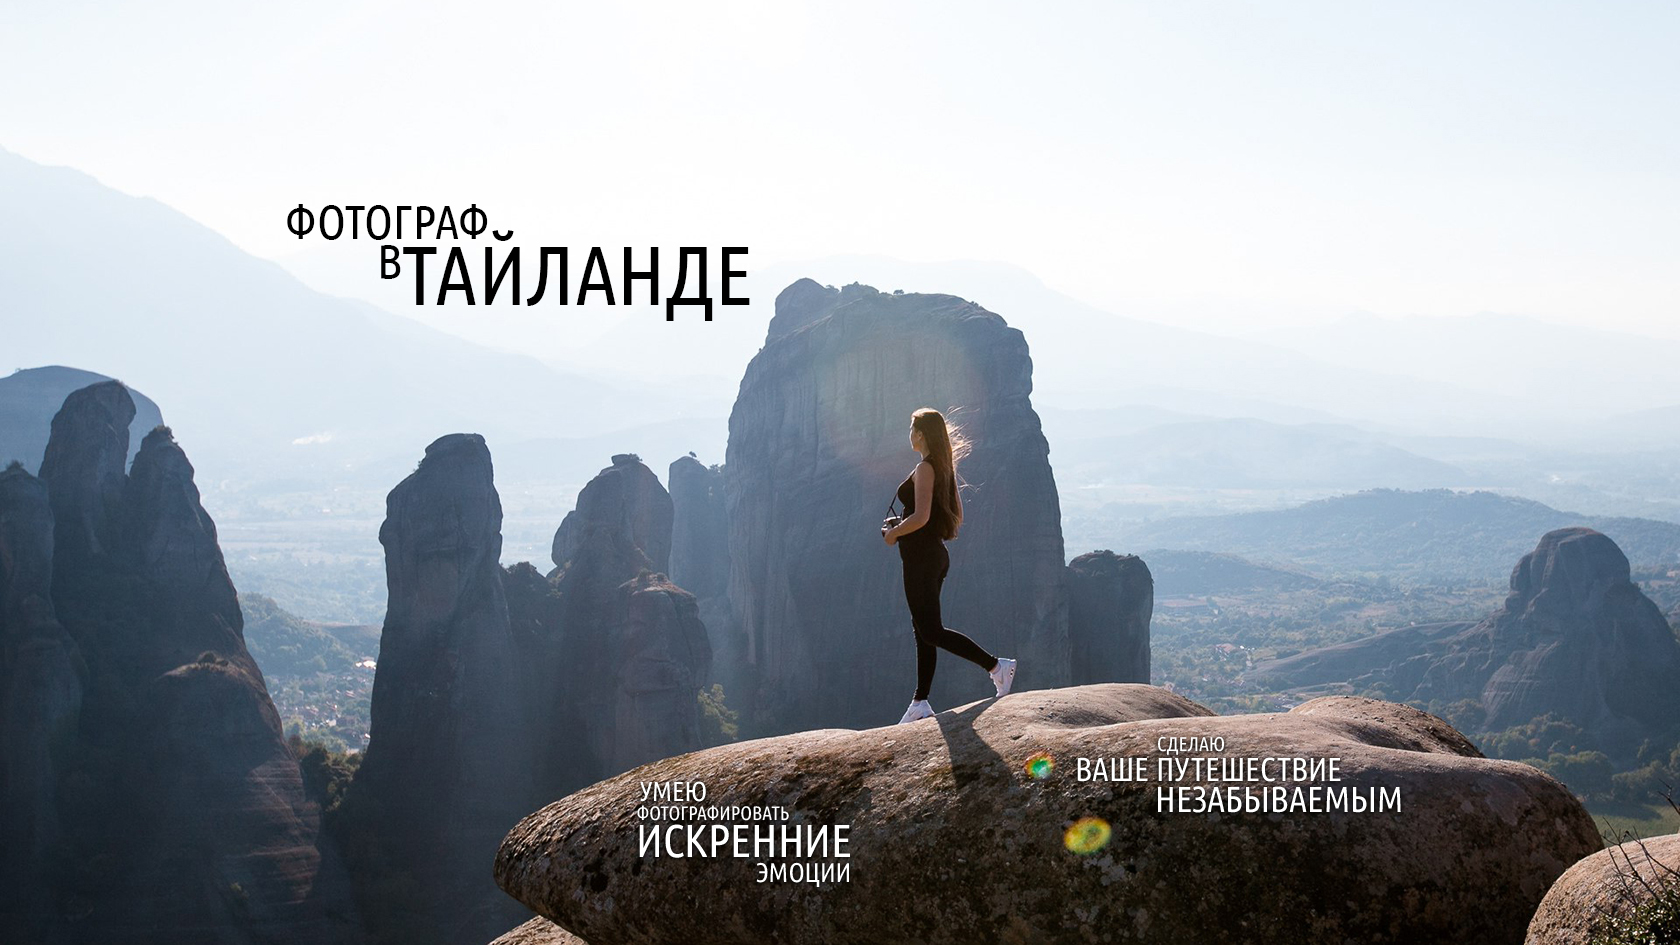
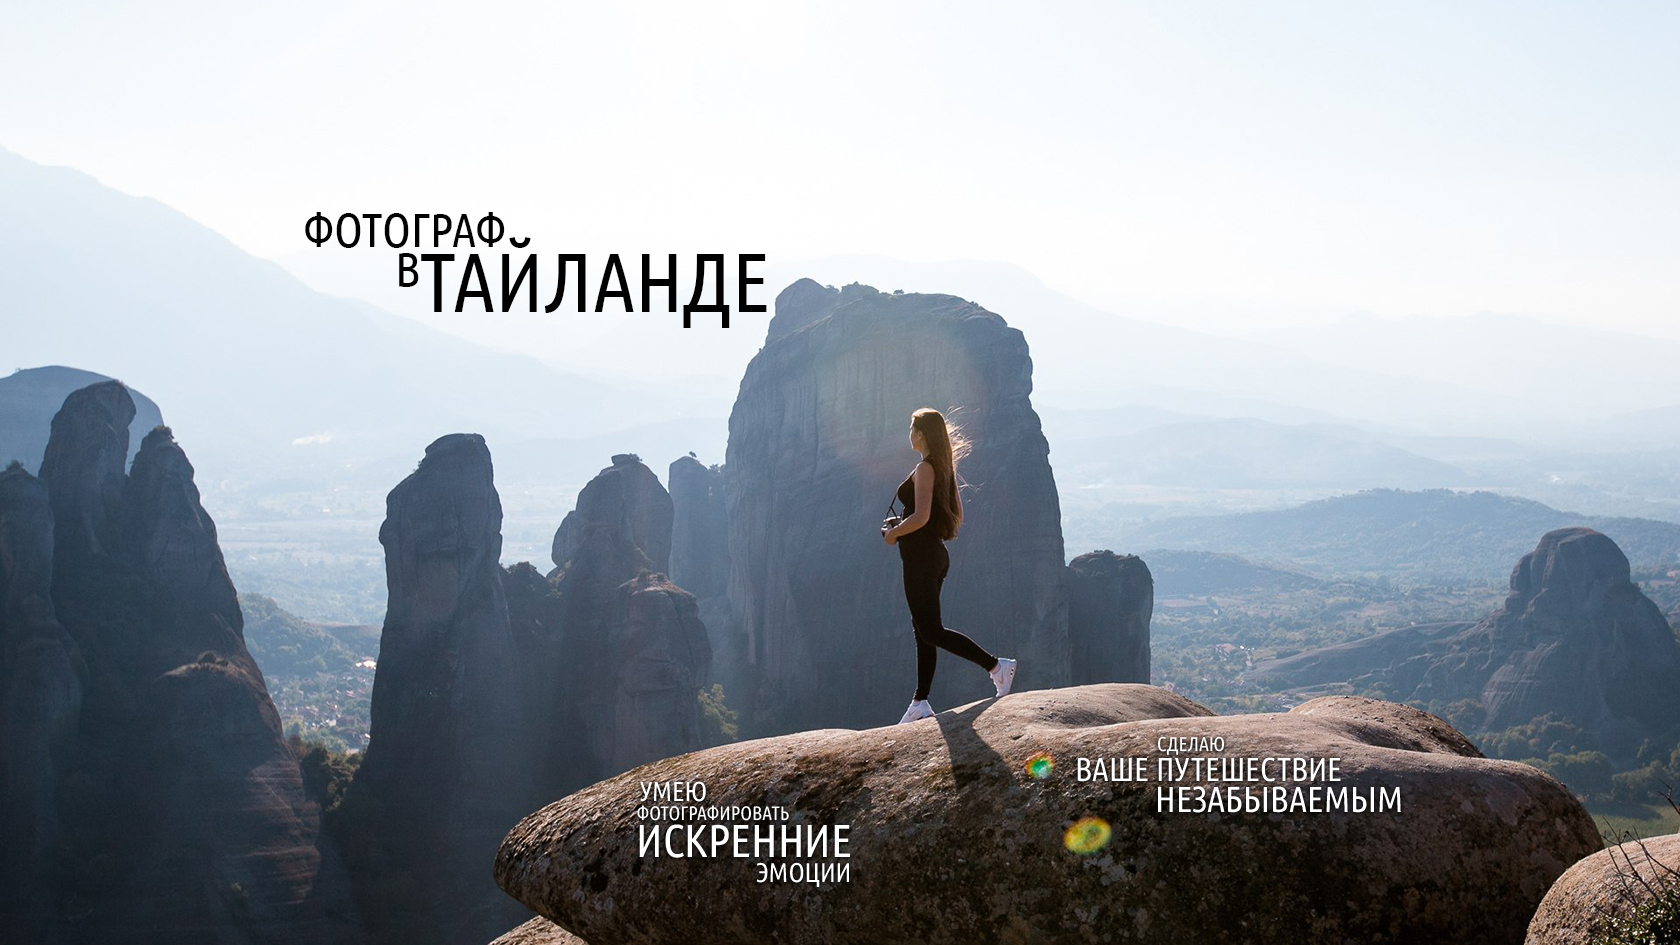
07.03.2018
Подправка фоновых изображений размера mid

Changed region(s): [[0.1548, 0.2148, 0.4643, 0.3376]]

diff --git a/css/mainStyle.css b/css/mainStyle.css
@@ -1,1 +1,1 @@
-@import url(https://fonts.googleapis.com/css?family=Ubuntu+Condensed);*{font-family:'Ubuntu Condensed',sans-serif;font-size:16px;-webkit-transition:all .6s ease;-moz-transition:all .6s ease;-o-transition:all .6s ease;-ms-transition:all .6s ease;-icab-perspective:all .6s ease;-khtml-perspective:all .6s ease;transition:all .6s ease}:active,:focus,:hover{outline:0;outline-offset:0}body,html{margin:0;padding:0;box-sizing:border-box}body{overflow-x:hidden;background-color:#efefef}a,h1,h2,h3,h4{font-family:'Ubuntu Condensed',sans-serif}h1{font-size:22px;margin:10px 0}a{text-decoration:none;color:rgba(68,68,68,.8)}a:hover{cursor:pointer;text-decoration:none}img{max-width:100%;height:auto;width:auto\9}.link{cursor:pointer}.mainImage,.secondImage,.thirdImage{background-repeat:no-repeat}.mainImage{height:100vh;background-image:url(../content/1.jpg);background-position:50% 50%;background-size:100%}@media screen and (max-width:768px){.mainImage{background-image:url(../content/1sm.jpg);background-position:55% 40%;background-size:cover}}@media screen and (min-width:769px){.mainImage{background-image:url(../content/1sm.jpg);background-position:50% 50%;background-size:150%}}@media screen and (min-width:992px){.mainImage{background-image:url(../content/1mid.jpg);background-position:50% 70%;background-size:140%}}@media screen and (min-width:1200px){.mainImage{background-image:url(../content/1.jpg);background-position:50% 50%;background-size:cover}}.secondImage{height:100vh;background-image:url(../content/2.jpg);background-position:50% 30%}@media screen and (max-width:768px){.secondImage{background-image:url(../content/2sm.jpg);background-position:50% -20%}}.thirdImage{background-image:url(../content/3.jpg);background-position:70% 40%}@media screen and (max-width:768px){.thirdImage{background-image:url(../content/3sm.jpg);background-position:60% 40%}}#about,#contacts,#portfolio,#work{padding:30px 0}#feedback,#work{background-color:#efefef}.navigation{position:fixed;top:0;font-size:15px;text-transform:uppercase}@media screen and (max-width:1222px){.navigation .row{display:flex;justify-content:center}}.navigation .logo{display:flex;justify-content:center;padding-top:10px;padding-bottom:10px}.navigation .logo img{max-height:40px}.navigation .buttons{padding-top:10px;min-width:750px;text-align:center}.navigation div.openButton{padding:10px}@media screen and (max-width:768px){.navigation .buttons .button{display:none;padding:10px}}@media screen and (max-width:844px){.navigation .buttons .button{padding:10px}}@media screen and (min-width:845px){.navigation .buttons .button{padding:10px}}.navigation .buttons .openButton{display:none}@media screen and (max-width:768px){.navigation .buttons .openButton{display:block}}.about .row{padding:0}.about .row>div{padding:10px}.about img{display:flex;justify-content:center}.about .textAboutMe{text-align:justify}.work .title{padding:15px;text-align:center}.work .types>div{margin-top:5px;margin-bottom:5px}.work .name{text-transform:uppercase;text-align:center}.work .name h2{font-size:20px}.work .pic>img{width:100%}.work .descr{border:1px solid rgba(68,68,68,.8);border-radius:5px;height:400px}.work .types>div>div{margin-bottom:10px;margin-top:10px}.price{margin-bottom:20px}.price .row>div{margin-bottom:10px;margin-top:10px}.price .title h1{text-align:center;color:rgba(68,68,68,.8);font-size:20px}.price .pr{padding:inherit;border:1px solid #ec3237;border-radius:5px}.price .order{padding:10px;width:50%;text-align:center;margin:10px auto;border:1px solid rgba(68,68,68,.8);border-radius:5px}.price .order:hover{border:1px solid #ec3237;border-radius:5px}.portfolio .thumb{padding:15px}.portfolio .thumb img{display:block;margin:0 auto}.portfolio .hidden{display:none}#portfolio .title{padding:10px}#portfolio .title h1{text-align:center}.feedback{padding:20px}.feedback .fb{padding:10px}.feedback .fb .text{text-align:justify;padding:15px}.feedback .fb .text p{margin:0}.feedback .fb .text h1{margin:0 0 10px}.feedback .fb img{display:block;margin:0 auto;width:40%;border-radius:50%}#feedback .title{padding:10px;text-align:center;margin:0 auto}.map{padding:0}@media screen and (max-width:768px){.map{padding:10px}}.map .title h1{text-align:center}footer{color:#fff}footer a.linkToDialog,footer div{text-align:center;margin:10px auto;width:50%;padding:5px;background-color:rgba(255,255,255,.3)}@media screen and (max-width:768px){footer a.linkToDialog,footer div{width:90%}}footer .socialMedia{display:flex;justify-content:center}footer .socialMedia a{color:#fff;margin:4px 30px}footer .socialMedia .fab{font-size:40px}footer .socialMedia .fab:hover{cursor:pointer}footer .socialMedia .fa-vk:hover{color:#507299}footer .socialMedia .fa-instagram:hover{background:-webkit-linear-gradient(bottom left,#fab21f,#e90006,#ba0197);background:-o-linear-gradient(bottom left,#fab21f,#e90006,#ba0197);background:-moz-linear-gradient(bottom left,#fab21f,#e90006,#ba0197);background:linear-gradient(to top right,#fab21f,#e90006,#ba0197);-webkit-background-clip:text;-moz-background-clip:text;-o-background-clip:text;background-clip:text;color:transparent}footer .socialMedia .fa-facebook-f:hover{color:#3b5998}footer .email,footer .phoneNumber{text-align:center}footer .linkToDialog{color:#fff;display:block}footer a.linkToDialog:hover{background-color:rgba(0,0,0,.5)}.theme1{color:rgba(68,68,68,.8);background-color:#fff}.theme1 a{color:rgba(68,68,68,.8)}.theme1 a.linkBg:hover{background-color:#ec3237}.theme1 a.link:hover{color:#ec3237}.theme2,.theme2 button,.theme2 input,.theme2 textarea{color:#fff;background-color:rgba(68,68,68,.8)}.theme2 a{color:#fff}.theme2 .link:hover{color:#ec3237}.theme3{color:rgba(68,68,68,.8);background-color:#ec3237}.theme3 a{color:rgba(68,68,68,.8)}.theme3 a.linkBg:hover{background-color:#fff}.theme3 a.link:hover{color:#fff}
+@import url(https://fonts.googleapis.com/css?family=Ubuntu+Condensed);*{font-family:'Ubuntu Condensed',sans-serif;font-size:16px;-webkit-transition:all .6s ease;-moz-transition:all .6s ease;-o-transition:all .6s ease;-ms-transition:all .6s ease;-icab-perspective:all .6s ease;-khtml-perspective:all .6s ease;transition:all .6s ease}:active,:focus,:hover{outline:0;outline-offset:0}body,html{margin:0;padding:0;box-sizing:border-box}body{overflow-x:hidden;background-color:#efefef}a,h1,h2,h3,h4{font-family:'Ubuntu Condensed',sans-serif}h1{font-size:22px;margin:10px 0}a{text-decoration:none;color:rgba(68,68,68,.8)}a:hover{cursor:pointer;text-decoration:none}img{max-width:100%;height:auto;width:auto\9}.link{cursor:pointer}.mainImage,.secondImage,.thirdImage{background-repeat:no-repeat}.mainImage{height:100vh;background-image:url(../content/1.jpg);background-position:50% 50%;background-size:100%}@media screen and (max-width:768px){.mainImage{background-image:url(../content/1sm.jpg);background-position:55% 40%;background-size:cover}}@media screen and (min-width:769px){.mainImage{background-image:url(../content/1sm.jpg);background-position:50% 50%;background-size:150%}}@media screen and (min-width:992px){.mainImage{background-image:url(../content/1mid.jpg);background-position:50% 70%;background-size:115%}}@media screen and (min-width:1200px){.mainImage{background-image:url(../content/1.jpg);background-position:50% 50%;background-size:cover}}.secondImage{height:100vh;background-image:url(../content/2.jpg);background-position:50% 30%}@media screen and (max-width:768px){.secondImage{background-image:url(../content/2sm.jpg);background-position:50% -20%}}.thirdImage{background-image:url(../content/3.jpg);background-position:70% 40%}@media screen and (max-width:768px){.thirdImage{background-image:url(../content/3sm.jpg);background-position:60% 40%}}#about,#contacts,#portfolio,#work{padding:30px 0}#feedback,#work{background-color:#efefef}.navigation{position:fixed;top:0;font-size:15px;text-transform:uppercase}@media screen and (max-width:1222px){.navigation .row{display:flex;justify-content:center}}.navigation .logo{display:flex;justify-content:center;padding-top:10px;padding-bottom:10px}.navigation .logo img{max-height:40px}.navigation .buttons{padding-top:10px;min-width:750px;text-align:center}.navigation div.openButton{padding:10px}@media screen and (max-width:768px){.navigation .buttons .button{display:none;padding:10px}}@media screen and (max-width:844px){.navigation .buttons .button{padding:10px}}@media screen and (min-width:845px){.navigation .buttons .button{padding:10px}}.navigation .buttons .openButton{display:none}@media screen and (max-width:768px){.navigation .buttons .openButton{display:block}}.about .row{padding:0}.about .row>div{padding:10px}.about img{display:flex;justify-content:center}.about .textAboutMe{text-align:justify}.work .title{padding:15px;text-align:center}.work .types>div{margin-top:5px;margin-bottom:5px}.work .name{text-transform:uppercase;text-align:center}.work .name h2{font-size:20px}.work .pic>img{width:100%}.work .descr{border:1px solid rgba(68,68,68,.8);border-radius:5px;height:400px}.work .types>div>div{margin-bottom:10px;margin-top:10px}.price{margin-bottom:20px}.price .row>div{margin-bottom:10px;margin-top:10px}.price .title h1{text-align:center;color:rgba(68,68,68,.8);font-size:20px}.price .pr{padding:inherit;border:1px solid #ec3237;border-radius:5px}.price .order{padding:10px;width:50%;text-align:center;margin:10px auto;border:1px solid rgba(68,68,68,.8);border-radius:5px}.price .order:hover{border:1px solid #ec3237;border-radius:5px}.portfolio .thumb{padding:15px}.portfolio .thumb img{display:block;margin:0 auto}.portfolio .hidden{display:none}#portfolio .title{padding:10px}#portfolio .title h1{text-align:center}.feedback{padding:20px}.feedback .fb{padding:10px}.feedback .fb .text{text-align:justify;padding:15px}.feedback .fb .text p{margin:0}.feedback .fb .text h1{margin:0 0 10px}.feedback .fb img{display:block;margin:0 auto;width:40%;border-radius:50%}#feedback .title{padding:10px;text-align:center;margin:0 auto}.map{padding:0}@media screen and (max-width:768px){.map{padding:10px}}.map .title h1{text-align:center}footer{color:#fff}footer a.linkToDialog,footer div{text-align:center;margin:10px auto;width:50%;padding:5px;background-color:rgba(255,255,255,.3)}@media screen and (max-width:768px){footer a.linkToDialog,footer div{width:90%}}footer .socialMedia{display:flex;justify-content:center}footer .socialMedia a{color:#fff;margin:4px 30px}footer .socialMedia .fab{font-size:40px}footer .socialMedia .fab:hover{cursor:pointer}footer .socialMedia .fa-vk:hover{color:#507299}footer .socialMedia .fa-instagram:hover{background:-webkit-linear-gradient(bottom left,#fab21f,#e90006,#ba0197);background:-o-linear-gradient(bottom left,#fab21f,#e90006,#ba0197);background:-moz-linear-gradient(bottom left,#fab21f,#e90006,#ba0197);background:linear-gradient(to top right,#fab21f,#e90006,#ba0197);-webkit-background-clip:text;-moz-background-clip:text;-o-background-clip:text;background-clip:text;color:transparent}footer .socialMedia .fa-facebook-f:hover{color:#3b5998}footer .email,footer .phoneNumber{text-align:center}footer .linkToDialog{color:#fff;display:block}footer a.linkToDialog:hover{background-color:rgba(0,0,0,.5)}.theme1{color:rgba(68,68,68,.8);background-color:#fff}.theme1 a{color:rgba(68,68,68,.8)}.theme1 a.linkBg:hover{background-color:#ec3237}.theme1 a.link:hover{color:#ec3237}.theme2,.theme2 button,.theme2 input,.theme2 textarea{color:#fff;background-color:rgba(68,68,68,.8)}.theme2 a{color:#fff}.theme2 .link:hover{color:#ec3237}.theme3{color:rgba(68,68,68,.8);background-color:#ec3237}.theme3 a{color:rgba(68,68,68,.8)}.theme3 a.linkBg:hover{background-color:#fff}.theme3 a.link:hover{color:#fff}

diff --git a/index.html b/index.html
@@ -392,7 +392,6 @@
                <div class="row">
                    <div class="col-sm-12 openButton"><a class="link openButton">меню</a></div>
                    <div class="col-lg-2 col-md-2 col-sm-12 button"><a class="link">главная</a></div>
-                   <!--<div class="col-lg-2 col-md-2 col-sm-12 button"><a class="link">обо мне</a></div>-->
                    <div class="col-lg-2 col-md-2 col-sm-12 button"><a class="link">виды съемки</a></div>
                    <div class="col-lg-2 col-md-2 col-sm-12 button"><a class="link">портфолио</a></div>
                    <div class="col-lg-2 col-md-2 col-sm-12 button"><a class="link">отзывы</a></div>

diff --git a/css/mainStyle.less b/css/mainStyle.less
@@ -75,7 +75,7 @@ img{
     @media screen and (min-width: 992px){
         background-image: url(../content/1mid.jpg);
         background-position: 50% 70%;
-        background-size: 140%;
+        background-size: 115%;
     }
     @media screen and (min-width: 1200px){
         background-image: url(../content/1.jpg);
